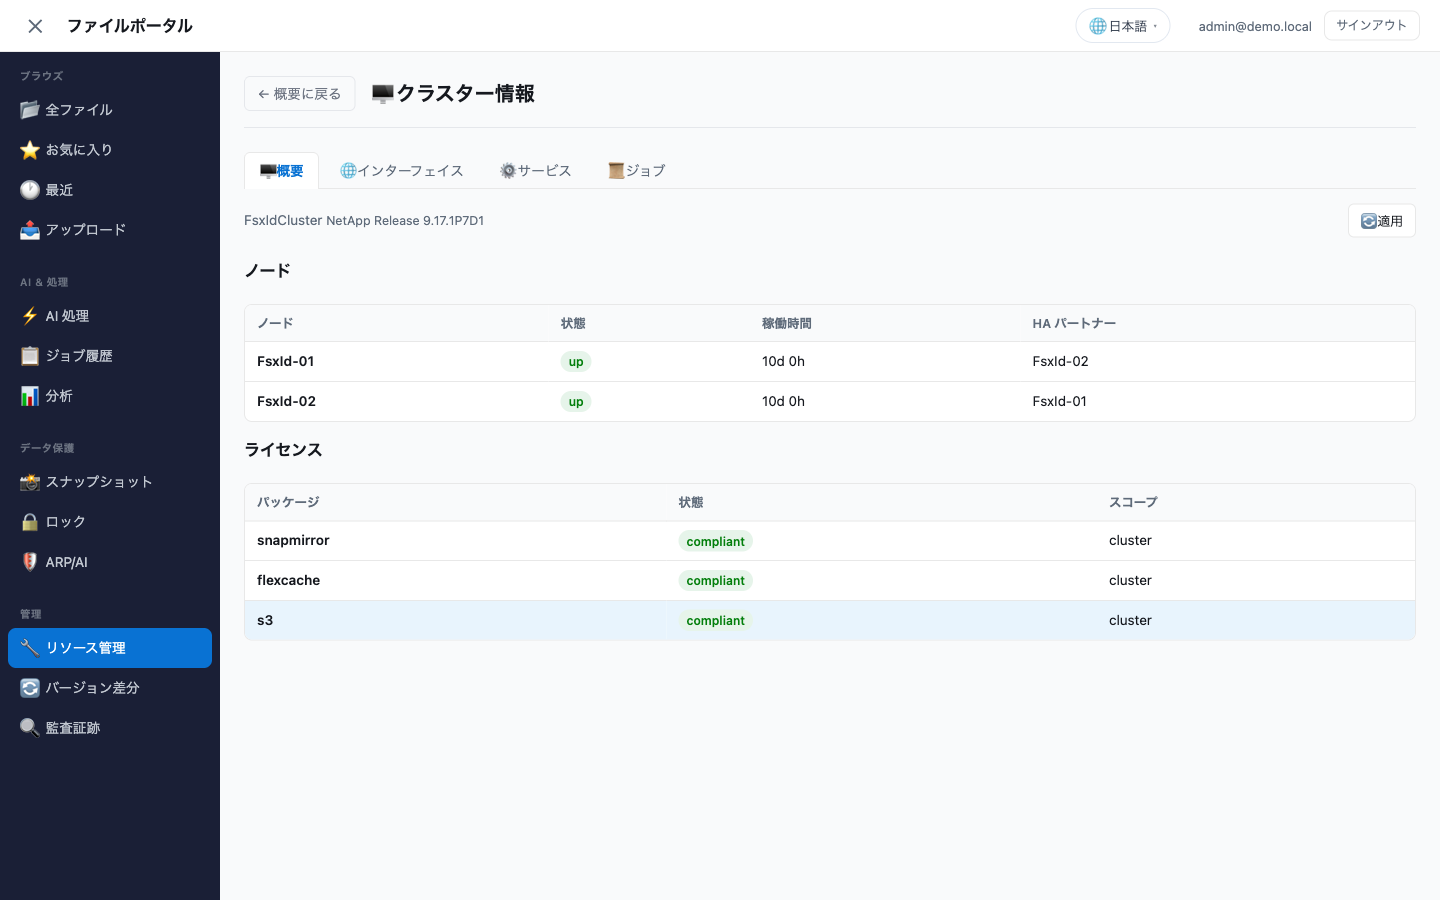
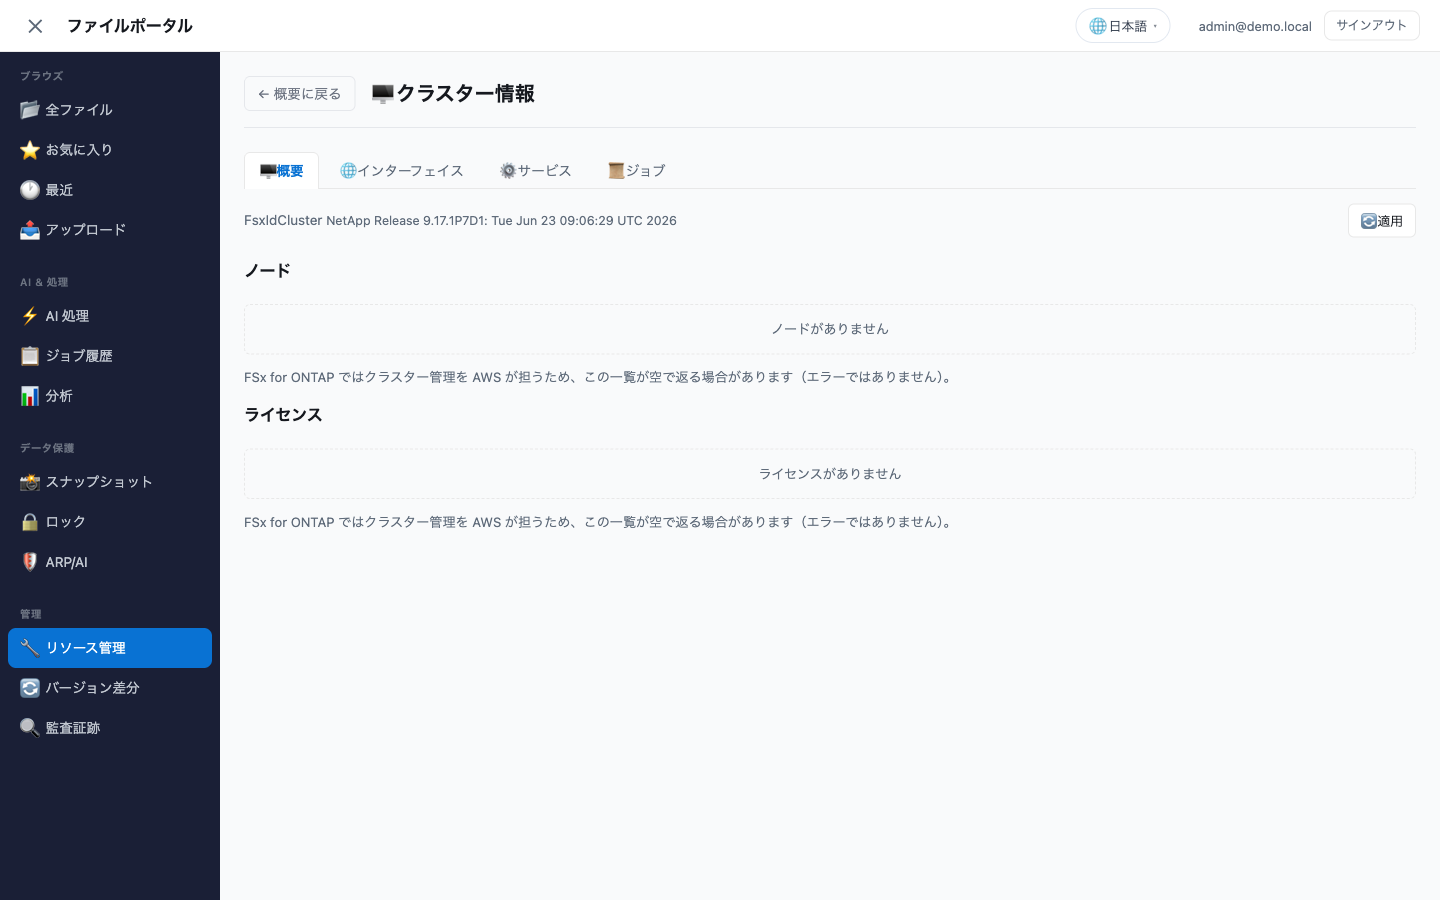
fix: SnapMirror list against live ONTAP, honest empty state for cluster lists (#208)
Two defects that only surfaced against a live cluster (ONTAP 9.17.1P7D1);
the mock ONTAP in the unit tests returns records regardless of the requested
`fields`, so neither was reachable from the test suite as written.

SnapMirror relationships came back empty
  `last_transfer_size` is not a field on /snapmirror/relationships. ONTAP
  rejects the whole request when one field name is unknown, so every
  relationship disappeared behind `{"relationships": [], "error": "The value
  \"last_transfer_size\" is invalid for field \"fields\""}`. Dropped the field
  from the query and from the mapped payload; per-transfer byte counts are
  already served by getSnapmirrorTransfers. Removed the now-unused
  `lastTransferSize` from the frontend interface (it was never rendered).

  Added a regression test that asserts the outgoing query string rather than
  the mapped response, since only the former can catch an invalid field name.

Nodes and licences rendered as a bare "none"
  /cluster/nodes and /cluster/licensing/licenses return zero records with no
  error, because AWS manages the cluster. The panel gave no indication that
  this is expected, so it read as a failure. Added a note under both lists
  (new key across all 8 locales, parity 1096 keys each).

Screenshots re-captured from live data with identifiers masked. The previous
cluster-information-overview.png showed populated node and licence tables,
which a real deployment does not produce.
[…]

diff --git a/solutions/amplify-portal/src/components/admin/ClusterManager.tsx b/solutions/amplify-portal/src/components/admin/ClusterManager.tsx
@@ -216,7 +216,10 @@ export function ClusterManager() {
 
           <h4>{t("clNodes")}</h4>
           {nodes.length === 0 ? (
-            <p className="rm-empty">{t("clNoNodes")}</p>
+            <>
+              <p className="rm-empty">{t("clNoNodes")}</p>
+              <p className="rm-hint">{t("clManagedByAwsHint")}</p>
+            </>
           ) : (
             <table className="rm-table">
               <thead>
@@ -244,7 +247,10 @@ export function ClusterManager() {
 
           <h4 style={{ marginTop: "1rem" }}>{t("clLicenses")}</h4>
           {licenses.length === 0 ? (
-            <p className="rm-empty">{t("clNoLicenses")}</p>
+            <>
+              <p className="rm-empty">{t("clNoLicenses")}</p>
+              <p className="rm-hint">{t("clManagedByAwsHint")}</p>
+            </>
           ) : (
             <table className="rm-table">
               <thead>

diff --git a/solutions/amplify-portal/src/i18n/locales/ja.ts b/solutions/amplify-portal/src/i18n/locales/ja.ts
@@ -834,6 +834,7 @@ export const ja = {
   clLicenses: "ライセンス",
   clLicenseName: "パッケージ",
   clNoLicenses: "ライセンスがありません",
+  clManagedByAwsHint: "FSx for ONTAP ではクラスター管理を AWS が担うため、この一覧が空で返る場合があります（エラーではありません）。",
   clScope: "スコープ",
   clNoInterfaces: "インターフェイスがありません",
   clServices: "サービス",

diff --git a/solutions/amplify-portal/src/i18n/locales/ko.ts b/solutions/amplify-portal/src/i18n/locales/ko.ts
@@ -792,6 +792,7 @@ export const ko: Record<TranslationKeys, string> = {
   clLicenses: "라이선스",
   clLicenseName: "패키지",
   clNoLicenses: "라이선스가 없습니다",
+  clManagedByAwsHint: "FSx for ONTAP에서는 AWS가 클러스터를 관리하므로 이 목록이 비어 있을 수 있습니다. 오류가 아닙니다.",
   clScope: "범위",
   clNoInterfaces: "인터페이스가 없습니다",
   clServices: "서비스",

diff --git a/solutions/amplify-portal/src/i18n/locales/de.ts b/solutions/amplify-portal/src/i18n/locales/de.ts
@@ -792,6 +792,7 @@ export const de: Record<TranslationKeys, string> = {
   clLicenses: "Lizenzen",
   clLicenseName: "Paket",
   clNoLicenses: "Keine Lizenzen",
+  clManagedByAwsHint: "Bei FSx for ONTAP verwaltet AWS den Cluster, daher kann diese Liste leer sein. Das ist erwartet und kein Fehler.",
   clScope: "Geltungsbereich",
   clNoInterfaces: "Keine Schnittstellen",
   clServices: "Dienste",

diff --git a/solutions/amplify-portal/src/i18n/locales/es.ts b/solutions/amplify-portal/src/i18n/locales/es.ts
@@ -792,6 +792,7 @@ export const es: Record<TranslationKeys, string> = {
   clLicenses: "Licencias",
   clLicenseName: "Paquete",
   clNoLicenses: "No hay licencias",
+  clManagedByAwsHint: "En FSx for ONTAP, AWS gestiona el clúster, por lo que esta lista puede estar vacía. Es lo esperado, no un error.",
   clScope: "Ámbito",
   clNoInterfaces: "No hay interfaces",
   clServices: "Servicios",

diff --git a/solutions/amplify-portal/src/i18n/locales/fr.ts b/solutions/amplify-portal/src/i18n/locales/fr.ts
@@ -792,6 +792,7 @@ export const fr: Record<TranslationKeys, string> = {
   clLicenses: "Licences",
   clLicenseName: "Package",
   clNoLicenses: "Aucune licence",
+  clManagedByAwsHint: "Sur FSx for ONTAP, AWS gère le cluster ; cette liste peut donc être vide. C'est normal, ce n'est pas une erreur.",
   clScope: "Portée",
   clNoInterfaces: "Aucune interface",
   clServices: "Services",

diff --git a/solutions/amplify-portal/src/i18n/locales/zh-CN.ts b/solutions/amplify-portal/src/i18n/locales/zh-CN.ts
@@ -792,6 +792,7 @@ export const zhCN: Record<TranslationKeys, string> = {
   clLicenses: "许可证",
   clLicenseName: "软件包",
   clNoLicenses: "没有许可证",
+  clManagedByAwsHint: "在 FSx for ONTAP 中，集群由 AWS 管理，因此此列表可能为空。这是预期行为，而非错误。",
   clScope: "范围",
   clNoInterfaces: "没有接口",
   clServices: "服务",

diff --git a/solutions/amplify-portal/src/i18n/locales/zh-TW.ts b/solutions/amplify-portal/src/i18n/locales/zh-TW.ts
@@ -792,6 +792,7 @@ export const zhTW: Record<TranslationKeys, string> = {
   clLicenses: "授權",
   clLicenseName: "套件",
   clNoLicenses: "沒有授權",
+  clManagedByAwsHint: "在 FSx for ONTAP 中，叢集由 AWS 管理，因此此清單可能為空。這是預期行為，而非錯誤。",
   clScope: "範圍",
   clNoInterfaces: "沒有介面",
   clServices: "服務",

diff --git a/solutions/amplify-portal/src/i18n/locales/en.ts b/solutions/amplify-portal/src/i18n/locales/en.ts
@@ -827,6 +827,7 @@ export const en: Record<TranslationKeys, string> = {
   clLicenses: "Licences",
   clLicenseName: "Package",
   clNoLicenses: "No licences",
+  clManagedByAwsHint: "On FSx for ONTAP, AWS manages the cluster, so this list can come back empty. That is expected, not an error.",
   clScope: "Scope",
   clNoInterfaces: "No interfaces",
   clServices: "Services",

diff --git a/solutions/amplify-portal/src/components/admin/SnapMirrorStatus.tsx b/solutions/amplify-portal/src/components/admin/SnapMirrorStatus.tsx
@@ -43,7 +43,6 @@ interface SnapMirrorRelationship {
   policy: string;
   lagTime: string;
   lastTransferType: string;
-  lastTransferSize: number;
 }
 
 interface Transfer {

diff --git a/solutions/amplify-portal/functions/resource-management/tests/test_handler.py b/solutions/amplify-portal/functions/resource-management/tests/test_handler.py
@@ -982,6 +982,25 @@ class TestSnapMirror:
         assert rel["healthy"] is True
         assert rel["policy"] == "MirrorAllSnapshots"
 
+    def test_does_not_request_unsupported_fields(self, mock_secrets):
+        """Guard the requested `fields` list, not just the response mapping.
+
+        A mock ONTAP returns records whatever `fields` we ask for, so asserting
+        only on the mapped output cannot catch an invalid field name. Real ONTAP
+        9.17 rejects the entire request when one field is unknown, which silently
+        emptied the relationship list until this was found on a live cluster.
+        """
+        from handler import handler
+
+        mock_http = MockHttp()
+        with patch("handler.urllib3.PoolManager") as mock_pool:
+            mock_pool.return_value = mock_http
+            handler({"action": "listSnapmirrorRelationships"}, None)
+
+        urls = [url for _method, url, _kwargs in mock_http.calls]
+        assert any("/snapmirror/relationships" in u for u in urls)
+        assert not any("last_transfer_size" in u for u in urls)
+
     def test_transfers_require_relationship_uuid(self, mock_secrets):
         from handler import handler
 

diff --git a/solutions/amplify-portal/functions/resource-management/handler.py b/solutions/amplify-portal/functions/resource-management/handler.py
@@ -2717,9 +2717,13 @@ def _list_snapmirror_relationships(http, headers, event):
     cross-cluster operation that belongs with a change-managed runbook rather
     than a portal button.
     """
+    # `last_transfer_size` is NOT a field on this endpoint — ONTAP 9.17 rejects the
+    # whole request with "The value \"last_transfer_size\" is invalid for field
+    # \"fields\"", so the relationship list came back empty. Per-transfer byte counts
+    # are available from getSnapmirrorTransfers (transfers[].bytes_transferred).
     params = (
         "fields=uuid,source.path,source.svm.name,destination.path,destination.svm.name,"
-        "state,healthy,policy.name,lag_time,last_transfer_type,last_transfer_size"
+        "state,healthy,policy.name,lag_time,last_transfer_type"
         "&max_records=100"
     )
 
@@ -2743,7 +2747,6 @@ def _list_snapmirror_relationships(http, headers, event):
                 "policy": r.get("policy", {}).get("name", ""),
                 "lagTime": r.get("lag_time", ""),
                 "lastTransferType": r.get("last_transfer_type", ""),
-                "lastTransferSize": r.get("last_transfer_size", 0),
             }
         )
 
